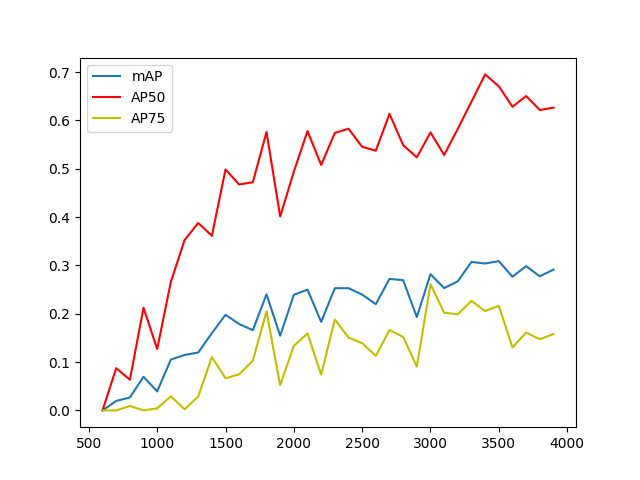
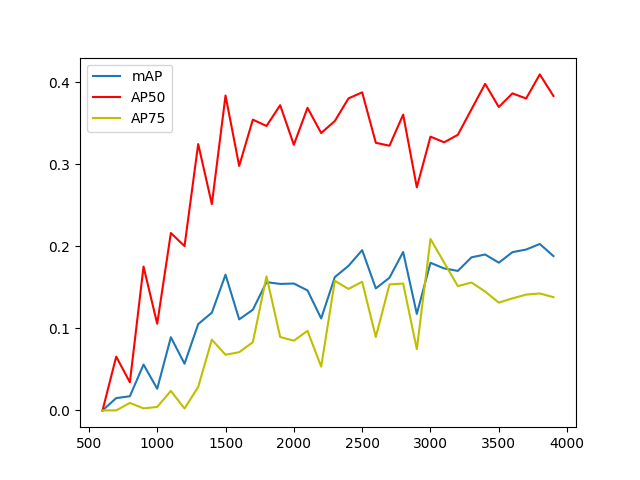
.

diff --git a/yolo/sampleAppPR.py b/yolo/sampleAppPR.py
@@ -12,6 +12,39 @@ def relativeToAbsolute(x,y,w,h,o_x,o_y):
     n_h = float(h)*float(o_y)
     return(n_x,n_y,n_w,n_h)
 
+def fakeCropAllInFolder(folder,cfgpath,weightpath,obj):
+  imagelist = glob.glob(str(folder + "*.jpg"))
+  imagelist.extend(glob.glob(str(folder + "*.JPG")))
+  imagelist.extend(glob.glob(str(folder + "*.jpeg")))
+  imagelist.extend(glob.glob(str(folder + "*.JPEG")))
+  delimiter = '/'
+
+  path = "./train_cropped.csv"
+  net = Detector(bytes(cfgpath, encoding="utf-8"), bytes(weightpath, encoding="utf-8"), 0, bytes(objpath,encoding="utf-8"))
+  counter = 0
+  rows = []
+
+  for i in imagelist:
+    counter += 1
+    img = cv2.imread(i)
+    img_darknet = Image(img)
+    results = net.detect(img_darknet)
+    for cat, score, bounds in results:
+      x,y,w,h= bounds
+      y1 = max(int(y-h/2),0)
+      y2 = min(int(y+h/2),img.shape[0])
+      x1 = max(int(x-w/2),0)
+      x2 = min(int(x+w/2),img.shape[1])
+      rows.append([i,[x1,y1,x2,y2]])
+    if counter %1000 == 0:
+      print(counter)
+      with open(path, "a") as myfile:
+        wr = csv.writer(myfile)
+        for r in rows:
+          wr.writerow(r)
+      rows = []
+
+
 def cropAllInFolder(folder,cfgpath,weightpath,objpath,objnamespath):
   imagelist = glob.glob(str(folder + "*.jpg"))
   imagelist.extend(glob.glob(str(folder + "*.JPG")))
@@ -47,7 +80,6 @@ def cropAllInFolder(folder,cfgpath,weightpath,objpath,objnamespath):
 def evaluateSet(setpath,cfgpath,weightpath,objpath,objnamespath,draw=False):
   imagelist = readSet(setpath)
   net = Detector(bytes(cfgpath, encoding="utf-8"), bytes(weightpath, encoding="utf-8"), 0, bytes(objpath,encoding="utf-8"))
-  set_ious = []
   resultlist = [["image","cat","score","bounds"]]
   for i in imagelist:
     img = cv2.imread(i)
@@ -62,6 +94,7 @@ def evaluateSet(setpath,cfgpath,weightpath,objpath,objnamespath,draw=False):
       coords.append(coor)
       cats.append(cat)
       if draw:
+        print("drawing " + str(i))
         cv2.rectangle(img, (int(x-w/2), int(y-h/2)), (int(x+w/2), int(y+h/2)), (255,0,0), thickness=2)
         cv2.putText(img,str(cat.decode("utf-8")),(int(x),int(y)),cv2.FONT_HERSHEY_COMPLEX,1,(255,0,0))
       """if draw:
@@ -112,10 +145,11 @@ def writeResults(results,path,weightnr):
     for r in results:
       wr.writerow(r)
 
+def test():
+  print("TEST COMPLETED")
+
 def main():
-    result = evaluateSet("../data/yolo/test.txt","yolo-obj.cfg","./yolo-obj_1800.weights","obj.data","data/obj.names",draw=True)
-    writeResults(result,"results",1800)
-    #cropAllInFolder("../data/images/","yolo-obj.cfg","yolo-obj_2300.weights","obj.data","data/obj.names")
+  fakeCropAllInFolder("../data/train/","yolo-obj.cfg","yolo-obj_1500.weights","obj.data","data/obj.names")
 
 if __name__ == "__main__":
     main()

diff --git a/yolo/eval.py b/yolo/eval.py
@@ -47,14 +47,14 @@ def evaluateResultsMAP(setpath,resultspath):
             best_iou = 0
             for l in label: #find bestmatching label for detected box
                 if classesMatch(l[0],results[o,1]):
-                    x,y,w,h = relativeToAbsolute(l[1],l[2],l[3],l[4],img.shape[1],img.shape[0]) #label struktur original x,y,w,h in relativ
+                    x,y,w,h = relativeToAbsolute(l[1],l[2],l[3],l[4],img.shape[1],img.shape[0]) #label struktur original x,y,w,h in relativ #fpr the fifth time, yes this is correct shape[1] = x, shape[0] = y
                     groundtruth = [float(x-w/2),float(y-h/2),float(x+w/2),float(y+h/2)]
                     coords = [float(pred[0]-pred[2]/2),float(pred[1]-pred[3]/2),float(pred[0]+pred[2]/2),float(pred[1]+pred[3]/2)]
                     iou = getIoU(groundtruth,coords)
                     if iou > best_iou:
                         best_iou = iou
             for threshold in iouthresholds:
-              if iou >= threshold:
+              if best_iou >= threshold:
                   pn[threshold].append("TP")
               else:
                   pn[threshold].append("FP")
@@ -91,29 +91,39 @@ def getAP(prec,rec):
   ap = np.mean(smoothprec)
   return(smoothprec,ap)
 
-def getIntersection(a,b):
+def getIntersection(a,b): #each in format x1,y1,x2,y2
   intersection = [0,0,0,0]
-  if a[0] > b[0]: #left
+  #left -> 
+  if b[0] <= a[0] and a[0] <= b[2]:
     intersection[0] = a[0]
-  else:
+  elif a[0] <= b[0] and b[0] <= a[2]:
     intersection[0] = b[0]
-  if a[1] > b[1]: #down
+  else: 
+    return 0
+  #down ->
+  if b[1] <= a[1] and a[1] <= b[3]:
     intersection[1] = a[1]
-  else:
+  elif a[1] <= b[1] and b[1] <= a[3]:
     intersection[1] = b[1]
-  if a[2] < b[2]: #right
+  else:
+    return 0
+  #right ->
+  if b[0] <= a[2] and a[2] <= b[2]: 
     intersection[2] = a[2]
-  else:
+  elif a[0] <= b[2] and b[2] <= a[2]:
     intersection[2] = b[2]
-  if a[3] < b[3]: #up
-    intersection[3] = a[3]
   else:
+    return 0
+  #up ->
+  if b[0] <= a[3] and a[3] <= b[3]: #up
+    intersection[3] = a[3]
+  elif a[0] <= b[3] and b[3] <= a[3]:
     intersection[3] = b[3] 
-  i1 = abs(intersection[3]-intersection[1])
-  i2 = abs(intersection[2]-intersection[0])
+  else:
+    return 0
+  i1 = intersection[3]-intersection[1]
+  i2 = intersection[2]-intersection[0]
   i = i1*i2 
-  if i < 0:
-    i = 0
   return i
 
 def getIoU(a,b): #format of a and b is x1,y1,x2,y2
@@ -226,7 +236,7 @@ def valEval():
 
 
 def main():
-  testEval()
+  valEval()
 
 if __name__ == "__main__":
     main()

diff --git a/preprocessing.py b/preprocessing.py
@@ -1,0 +1,45 @@
+from pydarknet import Detector,Image
+import cv2
+import numpy as np
+import glob
+
+cfgpath = "yolo/yolo-obj.cfg"
+weightpath = "yolo/yolo-obj_1500.weights"
+objpath = "yolo/obj.data"
+
+"""
+input, imagelist: a list of paths where images can be found
+output, fins and flukes:  lists/rather tables (sorted by fin and fluke labels) with line format imagepath, relative middlepoint, croppedImage in grayscale with values between 0 and 1
+"""
+def preprocessImages(imagelist):
+  #create YOLOv3 Network
+  net = Detector(bytes(cfgpath, encoding="utf-8"), bytes(weightpath, encoding="utf-8"), 0, bytes(objpath,encoding="utf-8"))
+  fins = []
+  flukes = []
+  #process imagewise
+  for i in imagelist:
+    img = cv2.imread(i)
+    img_darknet = Image(img)
+    results = net.detect(img_darknet)
+    #go through each result for the image
+    for cat, score, bounds in results:
+      label = str(cat).split("'")[1] #clean the label
+      x,y,w,h= bounds
+      coor = [int(x-w/2),int(y-h/2),int(x+w/2),int(y+h/2)]
+      #define the cropped area
+      y1 = max(int(y-h/2),0)
+      y2 = min(int(y+h/2),img.shape[0])
+      x1 = max(int(x-w/2),0)
+      x2 = min(int(x+w/2),img.shape[1])
+      #crop the image
+      crop = img[y1:y2,x1:x2]
+      crop = cv2.cvtColor(crop, cv2.COLOR_BGR2GRAY) #convert image to gray, as is processed by next module
+      crop = crop*(1/255) #normalise the image to values between 0 and 1, necessary for further processing 
+      #calculate relative middlepoint, this is important if multiple individuals in one image
+      middlex = x/img[1] #shape[0] = y, shape[1] = x
+      middley = y/img[0]
+      if label == "fin":
+        fins.append([i,[middlex,middley],crop])
+      elif label == "fluke":
+        flukes.append([i,[middlex,middley],crop])
+  return(fins,flukes)

diff --git a/comparison.py b/comparison.py
@@ -1,0 +1,34 @@
+#connection to database
+from database import *
+from sklearn.neighbors import NearestNeighbors
+
+def findClosestFluke(fluke,n):
+    results = []
+    embed = fluke[2] #fluke is strctured [imagepath,middlepoint,embedding]
+    knut = KNN(database.x(),database.y(),k=n)
+    closest = knut.predictTopK(embed) #now we got imagpaths/names
+    for c in closest:
+        c_id = database.getIDbyImagepath(imagepath)
+
+
+    return closest
+
+class KNN:
+    def __init__(self,x,y,k=10):
+        self.neighbourhood = NearestNeighbors(n_neighbors=k,algorithm='brute')
+        self.neighbourhood.fit(x)
+        #self.embeddings = x
+        self.ids = y #ids refers to the image name not individual name 
+        
+    def predictTopK(self,x): #returns an array of the top k neighbours (imagepaths/names) and their distance 
+        distances, neigh_idxs = self.neighbourhood.kneighbors([x])
+        distances = distances[0] 
+        neigh_idxs = neigh_idxs[0]
+        for n in range(len(neigh_idxs)):
+            idx = neigh_idxs[n]
+            results.append([self.ids[idx],distances[n]])
+        return results
+    
+    def retrain(self,x,y):
+        self.neighbourhood.fit(x)
+        self.ids = y

diff --git a/system.py b/system.py
@@ -1,0 +1,14 @@
+from preprocessing import preprocessImages
+from embedding import embedFlukes
+from comparison import findClosestFluke
+import glob
+
+#get input images somehow
+imagelist = glob.glob("./data/images/*.jpg") #dummy input
+#preprocess them
+fins, flukes = preprocessImages(imagelist) #this actually works
+#send through to embedding
+flukeembeddings = embedFlukes(flukes) #dummy function
+#find closest but loop coz user interaction iterative
+for f in flukeembeddings:
+    closest = findClosestFluke(f,10) #dummy function

diff --git a/embedding.py b/embedding.py
@@ -1,0 +1,10 @@
+def embedFlukes(flukes):
+    embeddings = []
+    for f in flukes:
+        i = f[2] #flukes is structured [path,middlepoint,image]
+        #do embedding
+        embed = f[2]
+        embeddings.append([i,embed])
+    return embeddings
+
+    
